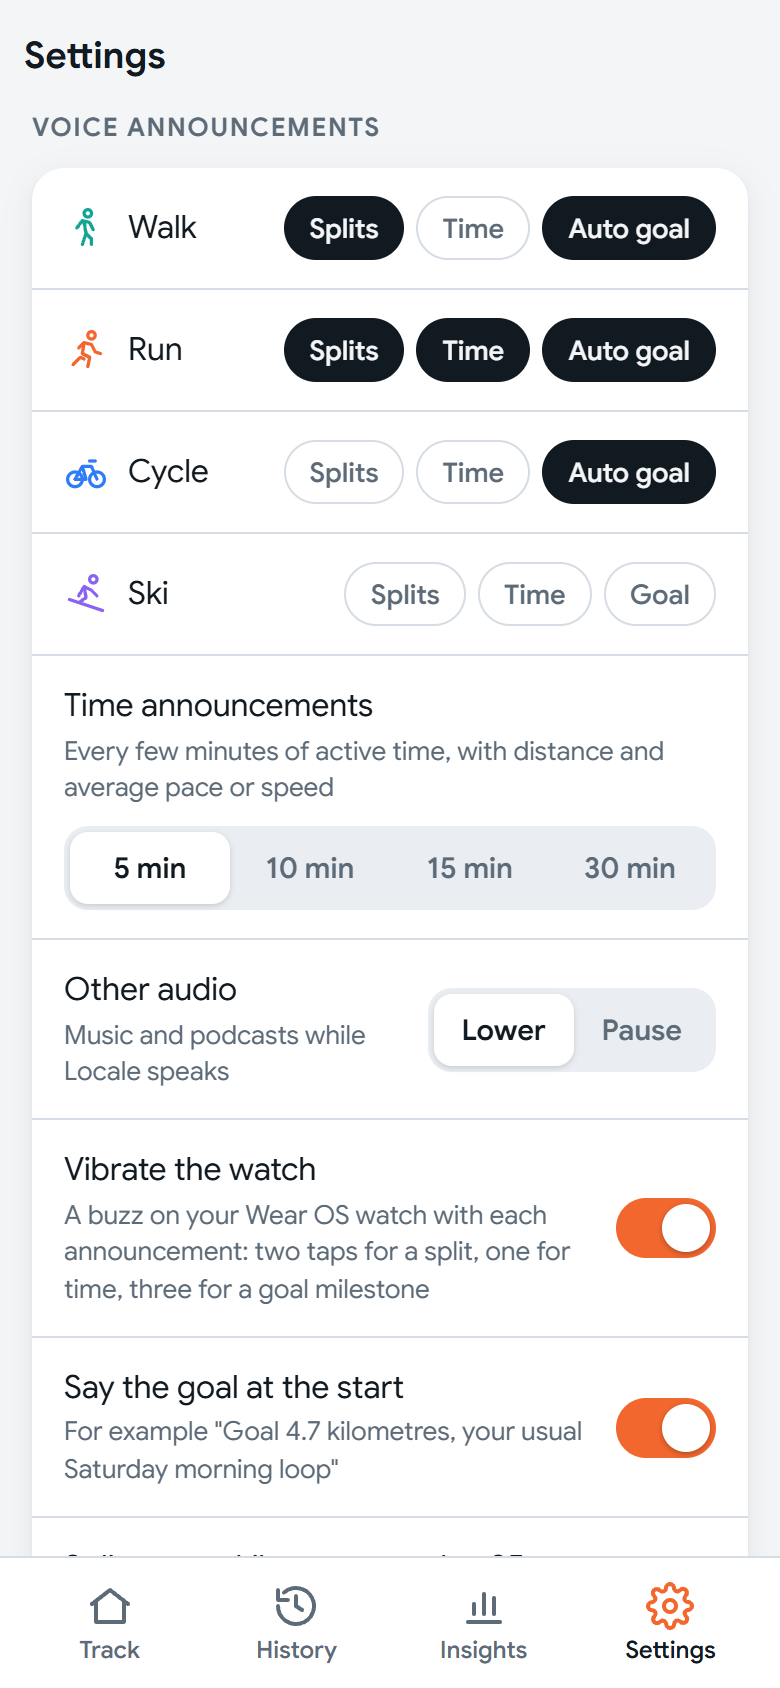
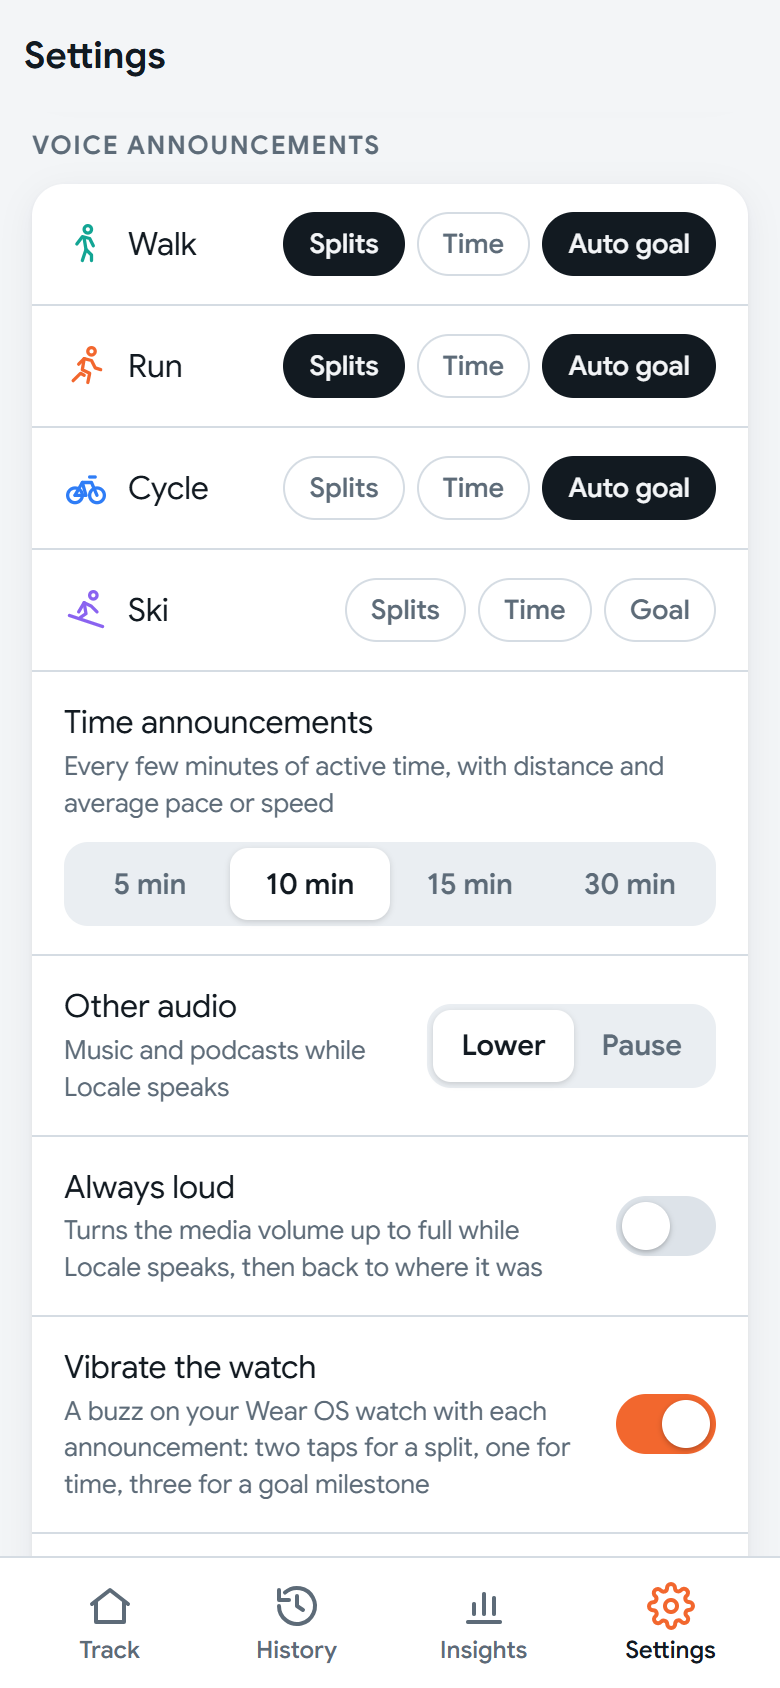
README: re-capture summary and voice settings screenshots
The workout summary shows the average GPS error under the distance, and the voice
settings show the Always loud switch. Features describe Always loud, the 10 m live
distance steps and the GPS error on the Distance tile.

diff --git a/README.md b/README.md
@@ -27,7 +27,7 @@ sensors.
   &nbsp;
   <img src="docs/screenshots/live.png" width="250" alt="Live workout screen with elapsed time, heart rate, distance, pace, heading, altitude and location">
   &nbsp;
-  <img src="docs/screenshots/summary.png" width="250" alt="Workout summary with distance, times, speed, pace, climb and altitude">
+  <img src="docs/screenshots/summary.png" width="250" alt="Workout summary with distance and the average GPS error, times, speed, pace, climb and altitude">
 </p>
 <p align="center">
   <img src="docs/screenshots/effort.png" width="250" alt="Effort: average and max heart rate, calories, cardio load and time in heart-rate zones">
@@ -44,7 +44,7 @@ sensors.
   <img src="docs/screenshots/live-position.png" width="250" alt="Live position screen: coordinates, barometric altitude, speed, compass heading and a map, with nothing recorded">
 </p>
 <p align="center">
-  <img src="docs/screenshots/voice-settings.png" width="250" alt="Voice announcement settings: Splits, Time and Goal per activity, time interval, lower or pause other audio, watch vibration and saying the goal at the start">
+  <img src="docs/screenshots/voice-settings.png" width="250" alt="Voice announcement settings: Splits, Time and Goal per activity, time interval, lower or pause other audio, always loud, and watch vibration">
   &nbsp;
   <img src="docs/screenshots/voice-live.png" width="250" alt="Live workout screen showing the last spoken announcement as a caption under the controls">
 </p>
@@ -149,7 +149,10 @@ are from a Pixel Watch 3; the workout screen uses the debug build's demo mode.</
   - **Goal:** at 25%, 50%, 75% and 100% of a goal distance set on the start screen.
 
   Each kind is on or off per activity (Settings → Voice announcements). Music is lowered
-  or paused while Locale speaks, and nothing is said while paused. A routine can have its
+  or paused while Locale speaks, and nothing is said while paused. **Always loud** turns
+  the media volume up to full while Locale speaks, then back to where it was.
+  The distance spoken (and shown live) only counts movement of 10 m or more, so GPS
+  jitter while you walk doesn't run it ahead of the saved workout's distance. A routine can have its
   own (Settings → Learned routines → **Customise**): splits, time, goal and the time
   interval, used instead of the activity's once Locale recognises the routine at the start.
 - **Watch vibration** with each announcement, so you can feel it without listening:
@@ -189,7 +192,8 @@ are from a Pixel Watch 3; the workout screen uses the debug build's demo mode.</
 
 ### Review
 - **Stats:**
-  - distance
+  - distance, with the average GPS error the phone reported for the workout's fixes
+    ("GPS ±4 m avg")
   - time, moving time and stationary time
   - average speed and average pace
   - max speed
